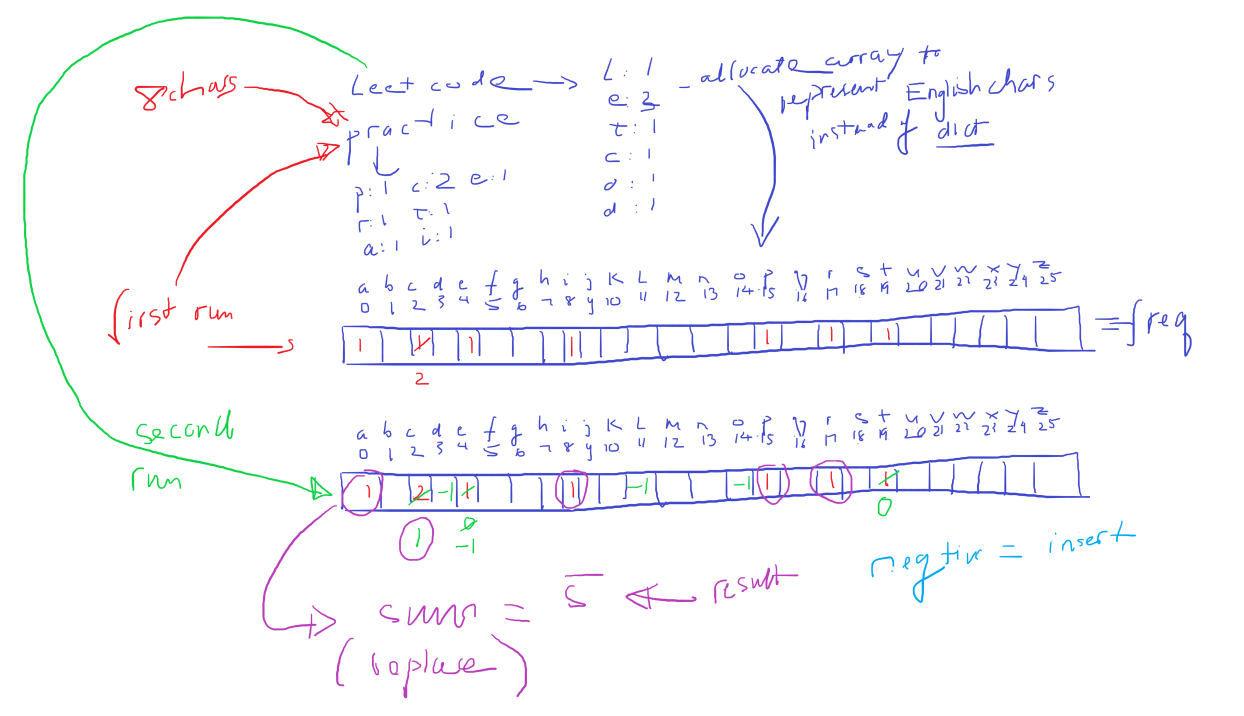
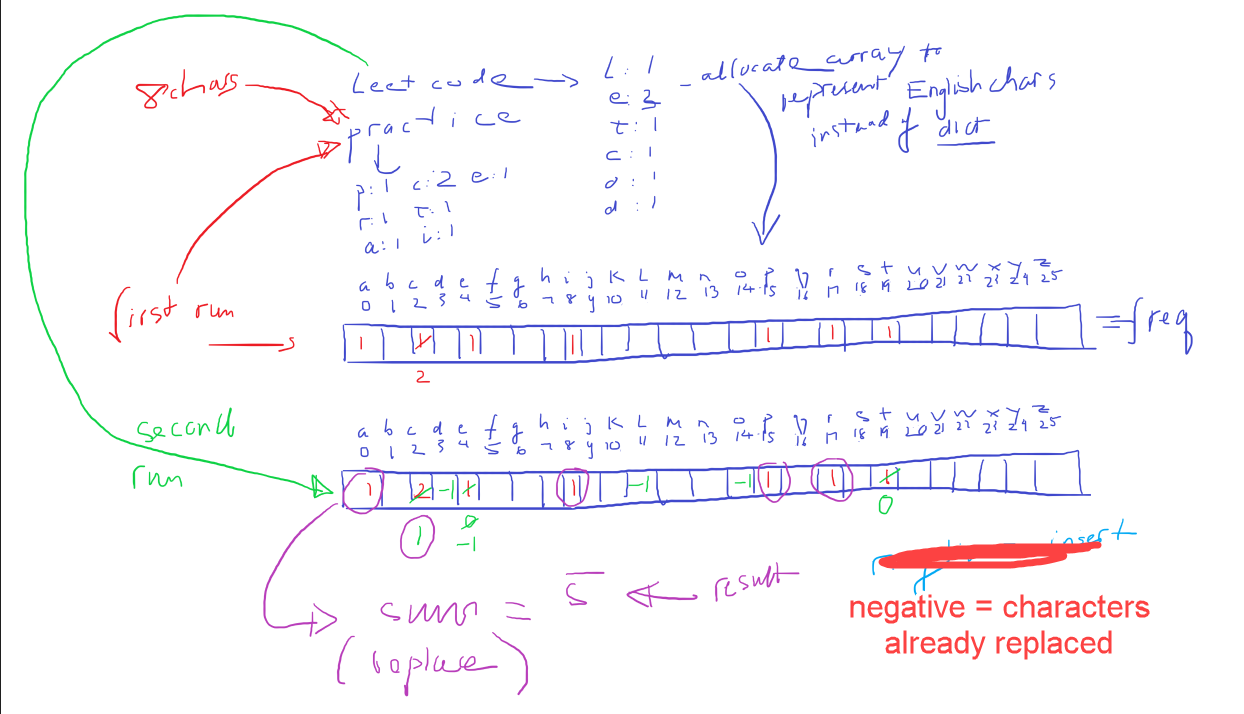
fix the explanation

diff --git a/_posts/2024-1-12-minimum-number-of-steps-to-make-two-strings-anagram.md b/_posts/2024-1-12-minimum-number-of-steps-to-make-two-strings-anagram.md
@@ -78,7 +78,7 @@ class Solution:
             """
             we don't care about the negative values 
             because we are looking for the characters that we need to replace. 
-            The negative ones indicate the characters that we need to insert.
+            The negative ones indicate the characters that we already replaced.
             """
             if freq >= 1:
                 result += freq
